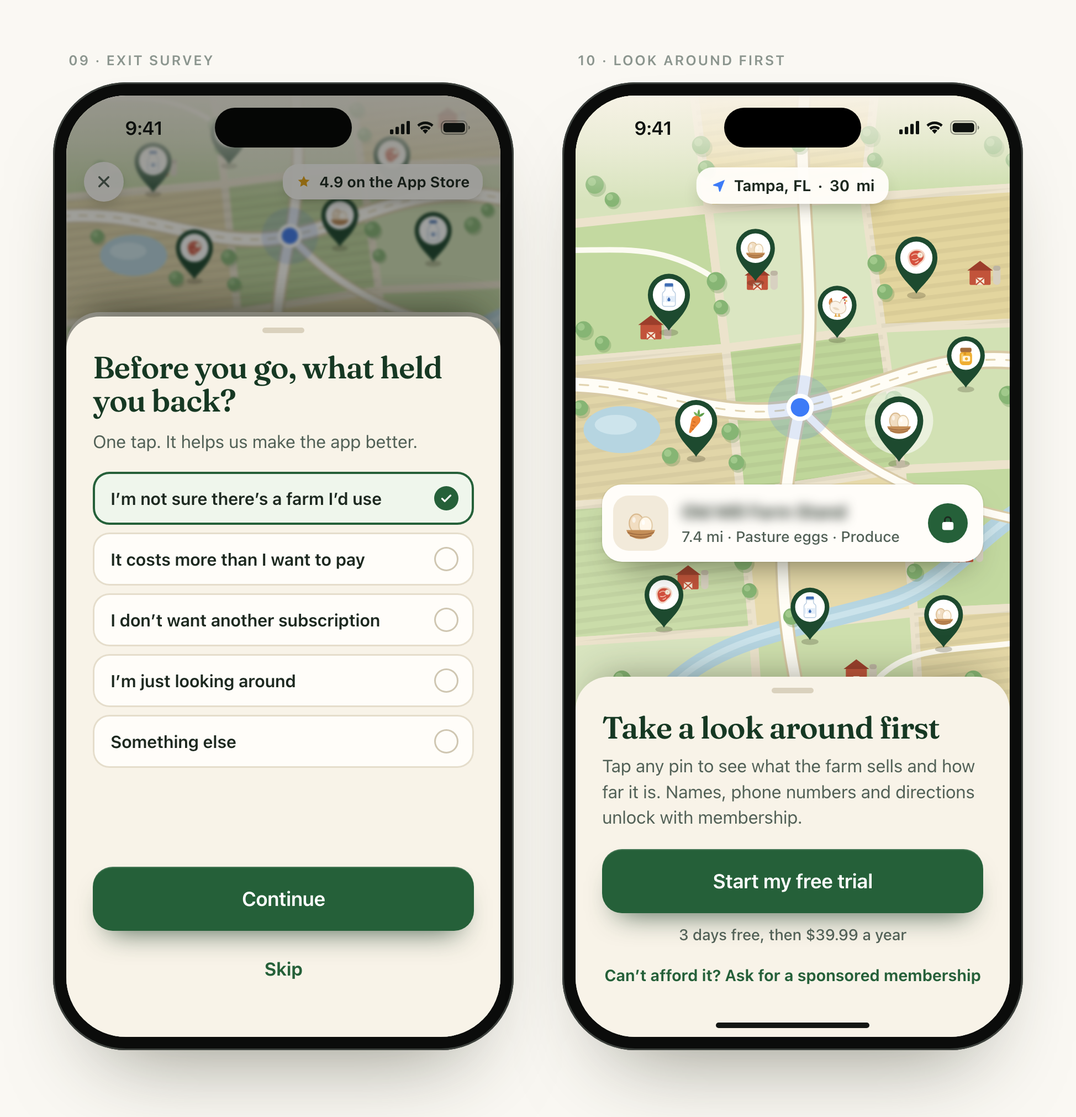
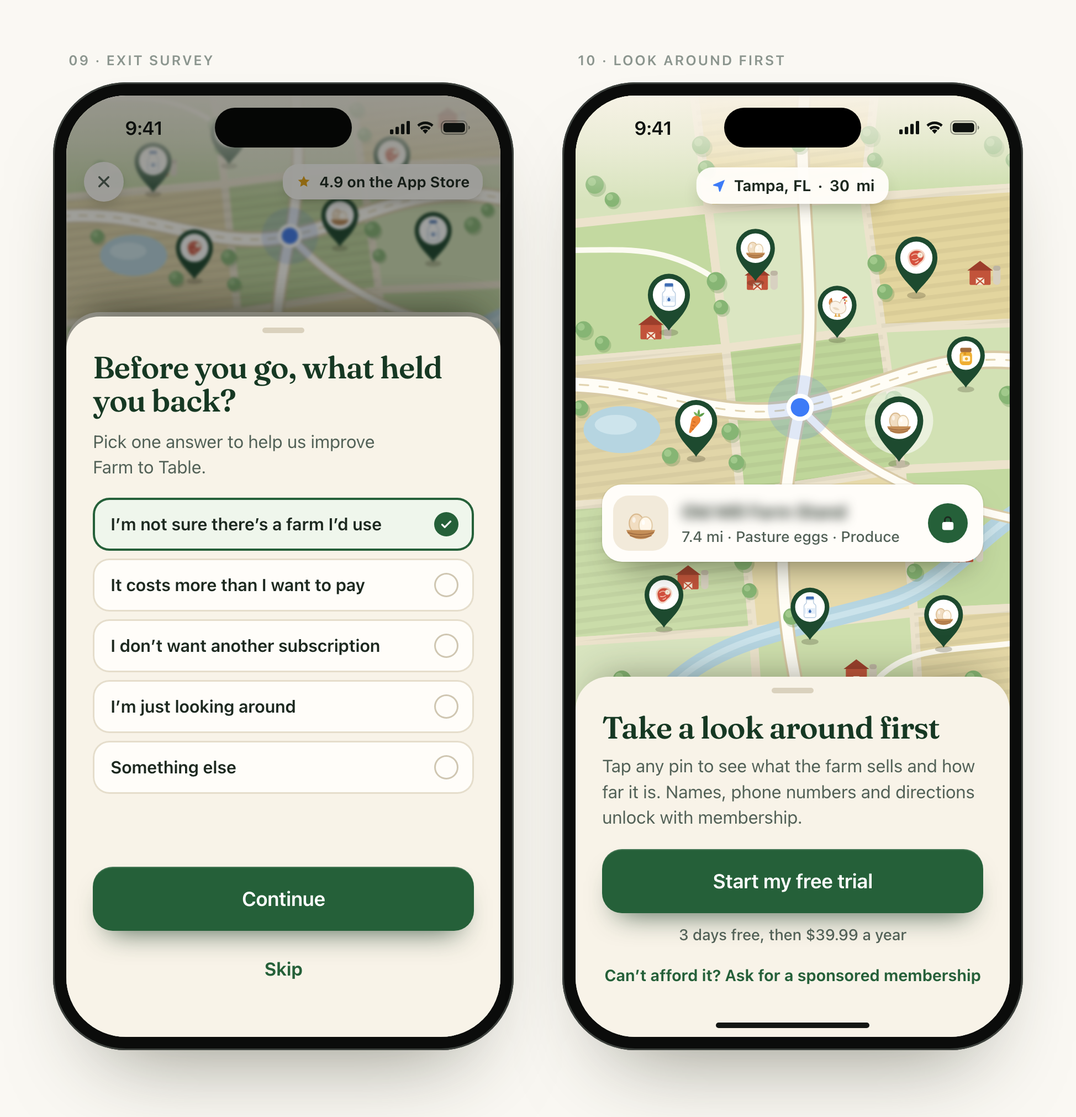
Rewrite page text in plain language
Notes, subtitles and lists lose the bold labels and colon glosses and
read as ordinary sentences. The process block is now titled just
"О процессе". Calques and repeated words are gone, and a few claims are
tightened: guideline 5.1.1(iv) is a recommendation, and the Marin County
complaint and the refund demand are two separate reviews.

On the screens, the location privacy line, the ZIP subtitle and the exit
survey subtitle are rewritten, and the affected PNGs are re-rendered.

Changed region(s): [[0.0924, 0.3739, 0.462, 0.7166]]

diff --git a/index.html b/index.html
@@ -5,11 +5,11 @@
 <meta name="viewport" content="width=device-width, initial-scale=1, viewport-fit=cover">
 <title>Farm to Table · Onboarding and Paywall</title>
 <meta name="robots" content="noindex, nofollow">
-<meta name="description" content="Тестовое задание на менеджера по монетизации: 4 экрана онбординга и пейвол для Farm to Table в размере iPhone, плюс ветки воронки, варианты пейвола для A/B, первые минуты триала и схема событий.">
+<meta name="description" content="Тестовое задание на менеджера по монетизации: 4 экрана онбординга и пейвол для Farm to Table в размере iPhone. Сверх задания ветки воронки, варианты пейвола для A/B, первые минуты триала и схема событий.">
 <meta property="og:type" content="website">
 <meta property="og:url" content="https://nikit34.github.io/farm-to-table-onboarding/">
 <meta property="og:title" content="Farm to Table: онбординг и пейвол">
-<meta property="og:description" content="4 экрана онбординга и пейвол в размере iPhone 393×852, плюс ветки воронки, три варианта пейвола, первые минуты триала и схема событий.">
+<meta property="og:description" content="4 экрана онбординга и пейвол в размере iPhone 393×852. Сверх задания ветки воронки, три варианта пейвола, первые минуты триала и схема событий.">
 <meta property="og:image" content="https://nikit34.github.io/farm-to-table-onboarding/png/00_overview.png">
 <meta property="og:image:width" content="4714">
 <meta property="og:image:height" content="2022">
@@ -734,7 +734,7 @@ body.proto .group-head,body.proto .about,body.overview .about,body.shotmode .abo
 
 <header class="page-head page" data-page="task">
   <h1>Farm to Table: онбординг и пейвол</h1>
-  <p>Четыре экрана онбординга и пейвол в размере iPhone 393×852, тексты на английском. Выбор продуктов на экране 2 меняет экран 4 и пейвол. Под экранами - процесс в пяти предложениях, на следующих вкладках - то, что сверх задания.</p>
+  <p>Четыре экрана онбординга и пейвол в размере iPhone 393×852, тексты на английском. Выбор продуктов на экране 2 меняет экран 4 и пейвол. Процесс описал под экранами, а всё, что сверх задания, вынес на другие вкладки.</p>
 </header>
 
 <main class="board" id="board">
@@ -760,7 +760,7 @@ body.proto .group-head,body.proto .about,body.overview .about,body.shotmode .abo
       <div class="homebar"></div>
     </div></div>
     <div class="note">
-      <p><b>Зачем.</b> Сразу показать, что это карта ферм рядом, и назвать продукты, за которыми приходят. Sign in - для тех, кто уже оплатил в веб-воронке.</p>
+      <p>Первый экран сразу объясняет, что это карта ферм рядом, и называет продукты, за которыми сюда приходят. Кнопка Sign in нужна тем, кто уже оплатил в веб-воронке.</p>
       <p><b>Метрика:</b> переход на шаг 2.</p>
     </div>
   </section>
@@ -779,8 +779,8 @@ body.proto .group-head,body.proto .about,body.overview .about,body.shotmode .abo
       <div class="homebar"></div>
     </div></div>
     <div class="note">
-      <p><b>Зачем.</b> Один вопрос вместо цепочки квиза, ответ подставляется в экран 4 и в пейвол. Плитка Bulk beef проверяет спрос на покупку говядины тушей: в числе ферм она считается по ранчо, которые продают доли туши.</p>
-      <p><b>Метрика:</b> доля прошедших шаг, число выбранных продуктов.</p>
+      <p>Вместо длинного квиза здесь один вопрос, и ответ потом подставляется на экран 4 и в пейвол. Плитка Bulk beef проверяет спрос на говядину тушей, а при подсчёте ферм для неё берём ранчо, которые продают доли туши.</p>
+      <p><b>Метрики:</b> доля прошедших шаг, число выбранных продуктов.</p>
     </div>
   </section>
   <section class="shot" data-n="3">
@@ -793,14 +793,14 @@ body.proto .group-head,body.proto .about,body.overview .about,body.shotmode .abo
       <div class="s3-body">
         <h1 class="title">Let’s find farms<br>around you</h1>
         <p class="sub">Allow location to see farms, ranches and markets within a short drive of home.</p>
-        <div class="privacy"><svg><use href="#i-shield"/></svg>Used only to build your map. Never shared.</div>
+        <div class="privacy"><svg><use href="#i-shield"/></svg>Used only for your map and never shared.</div>
       </div>
       <p class="fine" style="bottom:118px">Next, iOS will ask to share your location.</p>
       <button class="cta" data-go="3a" data-ov="loc" style="bottom:46px">Continue</button>
       <div class="homebar"></div>
     </div></div>
     <div class="note">
-      <p><b>Зачем.</b> Объяснить геолокацию до системного окна: после отказа в нём вернуть человека можно только через настройки. Одна кнопка по HIG, после «Don’t Allow» - ввод ZIP.</p>
+      <p>Праймер до системного окна объясняет, зачем нужна геолокация: кто запретит доступ в самом окне, того вернуть можно только через настройки. По HIG на праймере одна кнопка, а после «Don’t Allow» открывается ввод ZIP.</p>
       <p><b>Метрика:</b> opt-in геолокации.</p>
     </div>
   </section>
@@ -832,8 +832,8 @@ body.proto .group-head,body.proto .about,body.overview .about,body.shotmode .abo
       <div class="homebar"></div>
     </div></div>
     <div class="note">
-      <p><b>Главный экран.</b> В V2 похожий есть на шаге 10 из 29, здесь он стоит прямо перед пейволом и считает фермы по выбранным продуктам. Оплата вслепую - главная жалоба категории (31% отзывов на 1-2 звезды), поэтому видна ближайшая ферма со скрытым названием. «Verified» только у ферм, проверенных звонком или SMS, у остальных «Updated» с датой.</p>
-      <p><b>Метрика:</b> CTR в пейвол, рефанды по покрытию района.</p>
+      <p>Это главный экран воронки. В V2 похожий экран есть на шаге 10 из 29, а здесь он стоит прямо перед пейволом и считает фермы по выбранным продуктам. Больше всего в категории жалуются на оплату вслепую (31% отзывов на 1-2 звезды), поэтому ближайшую ферму видно, но без названия. Бейдж «Verified» стоит только у ферм, проверенных звонком или SMS, у остальных «Updated» с датой.</p>
+      <p><b>Метрики:</b> CTR в пейвол, рефанды по покрытию района.</p>
     </div>
   </section>
   <section class="shot" data-n="5">
@@ -873,8 +873,8 @@ body.proto .group-head,body.proto .about,body.overview .about,body.shotmode .abo
       <div class="homebar"></div>
     </div></div>
     <div class="note">
-      <p><b>Зачем.</b> Заголовок продолжает экран 4, продукты подставляются из шага 2. Таймлайн с датами, как у Blinkist (+23% стартов триала), напоминание - за два дня до конца триала. Сумма $39.99 крупнее пересчёта, как требует Apple, а якорь - $3.33 в месяц, дешевле дюжины фермерских яиц.</p>
-      <p><b>Метрика:</b> старт триала с показа, выручка на установку за 30 дней.</p>
+      <p>Заголовок продолжает экран 4, продукты подставляются из шага 2. Таймлайн с датами сделан как у Blinkist, где он дал +23% стартов триала. Напоминание в таймлайне стоит за два дня до конца триала. Цену $39.99 набрали крупнее пересчёта в месяц, так требует Apple, а вместо зачёркнутой цены пишем, что $3.33 в месяц дешевле дюжины фермерских яиц.</p>
+      <p><b>Метрики:</b> старт триала с показа, выручка на установку за 30 дней.</p>
     </div>
   </section>
   </div>
@@ -882,16 +882,16 @@ body.proto .group-head,body.proto .about,body.overview .about,body.shotmode .abo
 
 <section class="about page" data-page="task">
   <div class="brief">
-    <h3>О процессе в пяти предложениях</h3>
-    <p><b>Референсы:</b> прямой конкурент Localize и приложения с картой и взрослой аудиторией - AllTrails, Fishbrain, onX, PictureThis, плюс Blinkist и Too Good To Go; флоу смотрел в Mobbin, пейволы - в screensdesign и paywallscreens. <b>Почему они:</b> в 930 отзывах из App Store категорию больше всего злит оплата вслепую, а у этих приложений есть приёмы, которые показывают ценность до оплаты: фермы рядом до пейвола, таймлайн триала с напоминанием, честный якорь цены. <b>Инструменты:</b> Claude Code - исследование по пяти промптам из папки prompts, вёрстка в HTML, карты и иконки в SVG без стоков, скриншоты для правок через Playwright. <b>Пример промпта:</b> «Собери в одном HTML пять экранов iPhone 393×852 для Farm to Table… без таймеров и зачёркнутых цен, годовая цена крупнее пересчёта в месяц», бриф целиком - во вкладке <a href="#notes">«Как делал»</a>. <b>Итерации:</b> одиннадцать - пять на основные экраны, четыре на расширение, одна на светлую тему и одна по ответам команды.</p>
+    <h3>О процессе</h3>
+    <p>Референсы брал у прямого конкурента Localize и у приложений с картой и аудиторией постарше: AllTrails, Fishbrain, onX, PictureThis, а ещё у Blinkist и Too Good To Go; живые флоу смотрел в Mobbin, пейволы в screensdesign и paywallscreens. Выбрал именно их, потому что в 930 отзывах из App Store по этой категории чаще всего жалуются на оплату вслепую, а у этих приложений есть приёмы против неё: карта мест рядом до пейвола, таймлайн триала с напоминанием и якорь от реального месячного плана. Всё делал в Claude Code: исследование по пяти промптам из папки prompts, вёрстку экранов в HTML, карты и иконки в SVG без стоков, а скриншоты для правок снимал через Playwright. Начал с брифа «Собери в одном HTML пять экранов iPhone 393×852 для Farm to Table… без таймеров и зачёркнутых цен, годовая цена крупнее пересчёта в месяц», полный текст во вкладке <a href="#notes">«Как делал»</a>. Итераций было одиннадцать: пять на основные экраны, четыре на расширение, одна на светлую тему и одна по ответам команды.</p>
   </div>
 </section>
 
 <section class="group g2 page" data-page="branches">
   <div class="group-head">
     <span class="kicker">Сверх задания</span>
-    <h2>До пейвола: ветки и состояния</h2>
-    <p>Отказ от геолокации, сборка карты, мало ферм рядом и пустой район, где пейвол не показываем.</p>
+    <h2>Ветки и состояния до пейвола</h2>
+    <p>Отказ от геолокации, сборка карты и районы, где ферм мало или нет совсем. В пустом районе пейвол не показываем.</p>
   </div>
   <div class="shots">
 
@@ -899,7 +899,7 @@ body.proto .group-head,body.proto .about,body.overview .about,body.shotmode .abo
     <div class="shot-label">03a · System location prompt</div>
     <div class="frame"><div class="phone" lang="en"></div></div>
     <div class="note">
-      <p><b>Зачем.</b> Текст окна продолжает праймер, а «Don’t Allow» ведёт на ввод ZIP, как требует правило 5.1.1(iv). Для радиуса в 30 миль хватит приблизительной геолокации.</p>
+      <p>Текст окна говорит то же, что праймер. «Don’t Allow» ведёт на ввод ZIP, как советует правило 5.1.1(iv), а для радиуса в 30 миль хватит и приблизительной геолокации.</p>
       <p><b>Метрика:</b> доля Allow.</p>
     </div>
   </section>
@@ -912,7 +912,7 @@ body.proto .group-head,body.proto .about,body.overview .about,body.shotmode .abo
       <div class="nav"><button class="back" data-go="3" aria-label="Back"><svg><use href="#i-chev"/></svg></button><div class="prog"><i class="on"></i><i class="on"></i><i></i></div></div>
       <div class="zip-head">
         <h1 class="title">Where should<br>we look?</h1>
-        <p class="sub">Enter your ZIP code and we’ll show farms within a short drive of it.</p>
+        <p class="sub">Enter your ZIP code to see farms within a short drive.</p>
       </div>
       <div class="zip-field"><span class="zip-d js-zip">33602</span><span class="caret"></span></div>
       <div class="zip-city js-zipcity"><span class="ok"><svg><use href="#i-check"/></svg></span><span class="js-zipname">Tampa, FL</span></div>
@@ -935,8 +935,8 @@ body.proto .group-head,body.proto .about,body.overview .about,body.shotmode .abo
       <div class="homebar"></div>
     </div></div>
     <div class="note">
-      <p><b>Зачем.</b> Без геолокации человек всё равно доходит до ферм. В прототипе ZIP переключает район: 33602 - ферм много, 94901 - мало, 89801 - нет.</p>
-      <p><b>Метрика:</b> доля ZIP, доходимость до пейвола.</p>
+      <p>Без геолокации человек всё равно доходит до ферм. В прототипе ZIP переключает район: в 33602 ферм много, в 94901 мало, в 89801 нет.</p>
+      <p><b>Метрики:</b> доля ZIP, доходимость до пейвола.</p>
     </div>
   </section>
 
@@ -959,7 +959,7 @@ body.proto .group-head,body.proto .about,body.overview .about,body.shotmode .abo
       <div class="homebar"></div>
     </div></div>
     <div class="note">
-      <p><b>Зачем.</b> Три секунды, пока база считает фермы: человек видит, что именно проверяется, и числа совпадут с экраном 4.</p>
+      <p>Пока база три секунды считает фермы, человек видит, сколько их по каждому продукту, и эти числа потом будут на экране 4.</p>
       <p><b>Метрика:</b> доля отвалов на загрузке.</p>
     </div>
   </section>
@@ -986,8 +986,8 @@ body.proto .group-head,body.proto .about,body.overview .about,body.shotmode .abo
       <div class="homebar"></div>
     </div></div>
     <div class="note">
-      <p><b>Зачем.</b> Если в 30 милях меньше 10 ферм, радиус сам расширяется до 60 и 100 миль, и экран честно называет цифры. Это ответ на отзывы вроде «одна ферма на весь Marin County» с требованием вернуть деньги.</p>
-      <p><b>Метрика:</b> trial → paid и рефанды в этом состоянии.</p>
+      <p>Если в 30 милях меньше 10 ферм, радиус сам расширяется до 60 и 100 миль, и на экране видно, сколько ферм нашлось. На Farm to Table уже жалуются в отзывах на одну ферму на весь Marin County, а в другом отзыве требуют вернуть деньги.</p>
+      <p><b>Метрики:</b> trial → paid и рефанды на этом экране.</p>
     </div>
   </section>
 
@@ -1013,7 +1013,7 @@ body.proto .group-head,body.proto .about,body.overview .about,body.shotmode .abo
       <div class="homebar"></div>
     </div></div>
     <div class="note">
-      <p><b>Зачем.</b> Ферм нет и в 100 милях - пейвол не показываем, такие деньги вернутся рефандом. Доля экрана по гео показывает, где не закупать рекламу.</p>
+      <p>Если ферм нет и в 100 милях, пейвол не показываем: такой человек почти наверняка попросит рефанд. По доле этого экрана в разных регионах видно, где не стоит закупать рекламу.</p>
       <p><b>Метрика:</b> доля показов по гео.</p>
     </div>
   </section>
@@ -1024,8 +1024,8 @@ body.proto .group-head,body.proto .about,body.overview .about,body.shotmode .abo
 <section class="group g3 page" data-page="paywalls">
   <div class="group-head">
     <span class="kicker">Сверх задания</span>
-    <h2>Пейвол: варианты для A/B и состояния</h2>
-    <p>A - основной вариант, B и C меняют в нём один блок. Плюс пейвол для тех, у кого триал уже был, и лист App Store.</p>
+    <h2>Варианты и состояния пейвола</h2>
+    <p>Вариант A основной, B и C меняют в нём по одному блоку. Ещё здесь окно покупки App Store и пейвол для тех, у кого уже был триал.</p>
   </div>
   <div class="shots">
 
@@ -1059,7 +1059,7 @@ body.proto .group-head,body.proto .about,body.overview .about,body.shotmode .abo
       <div class="homebar"></div>
     </div></div>
     <div class="note">
-      <p><b>Гипотеза.</b> Кто пришёл за продуктом, покупает ферму, а не список выгод: названия видны, телефон и маршрут закрыты. Риск - найдут ферму в Google, поэтому это вариант для теста, а не замена A.</p>
+      <p>Проверяем, охотнее ли человек, который пришёл за конкретным продуктом, платит за ферму, чем за список выгод. Для этого названия ферм видны, а телефон и маршрут закрыты. Риск в том, что ферму найдут в Google, так что B пока только вариант для теста.</p>
       <p><b>Метрика:</b> старт триала против A.</p>
     </div>
   </section>
@@ -1103,8 +1103,8 @@ body.proto .group-head,body.proto .about,body.overview .about,body.shotmode .abo
       <div class="homebar"></div>
     </div></div>
     <div class="note">
-      <p><b>Гипотеза.</b> Честный якорь - реальный месячный план: «Save 58%» от $7.99 в месяц - правда, а зачёркнутая $79.98 в V1 - нет. Решаем по выручке на установку, а не по конверсии.</p>
-      <p><b>Метрика:</b> выручка на установку, доля годовых.</p>
+      <p>Проверяем якорь от реального месячного плана. Скидка «Save 58%» посчитана от $7.99 в месяц, а по зачёркнутой $79.98 из V1 подписку не продавали. Решаем по выручке на установку, а не по конверсии, потому что часть людей возьмёт месяц и отменит после первого списания.</p>
+      <p><b>Метрики:</b> выручка на установку, доля годовых.</p>
     </div>
   </section>
 
@@ -1145,7 +1145,7 @@ body.proto .group-head,body.proto .about,body.overview .about,body.shotmode .abo
       <div class="homebar"></div>
     </div></div>
     <div class="note">
-      <p><b>Зачем.</b> Триал даётся один раз на Apple ID: тем, кто уже пробовал, не обещаем «3 days free», а показываем дату списания и как отменить.</p>
+      <p>Триал даётся один раз на Apple ID. Тем, кто уже пробовал, не обещаем «3 days free» и пишем дату списания и способ отмены.</p>
       <p><b>Метрика:</b> конверсия в оплату без триала.</p>
     </div>
   </section>
@@ -1154,8 +1154,8 @@ body.proto .group-head,body.proto .about,body.overview .about,body.shotmode .abo
     <div class="shot-label">05e · App Store purchase sheet</div>
     <div class="frame"><div class="phone" lang="en"></div></div>
     <div class="note">
-      <p><b>Зачем.</b> Лист рисует Apple, и текст пейвола должен с ним совпасть: 3 дня бесплатно, потом $39.99 в конкретную дату.</p>
-      <p><b>Метрика:</b> доля отмен на листе.</p>
+      <p>Окно покупки рисует Apple, и пейвол должен с ним совпадать: 3 дня бесплатно, потом $39.99 в конкретную дату.</p>
+      <p><b>Метрика:</b> доля отмен в окне покупки.</p>
     </div>
   </section>
 
@@ -1165,8 +1165,8 @@ body.proto .group-head,body.proto .about,body.overview .about,body.shotmode .abo
 <section class="group g4 page" data-page="after">
   <div class="group-head">
     <span class="kicker">Сверх задания</span>
-    <h2>После оплаты: первые минуты триала</h2>
-    <p>Эти экраны выполняют обещания пейвола: карта сразу, напоминание перед списанием, простая отмена.</p>
+    <h2>Первые минуты триала</h2>
+    <p>Пейвол обещает карту сразу, напоминание перед списанием и простую отмену, и эти экраны всё это дают.</p>
   </div>
   <div class="shots">
 
@@ -1191,7 +1191,7 @@ body.proto .group-head,body.proto .about,body.overview .about,body.shotmode .abo
       <div class="homebar"></div>
     </div></div>
     <div class="note">
-      <p><b>Зачем.</b> Разрешение на напоминание просим, когда оно нужно самому человеку: у Blinkist такой экран поднял согласие на пуши с 6% до 74%.</p>
+      <p>Разрешение на пуши просим тогда, когда человеку самому нужно напоминание. У Blinkist такой экран поднял согласие на пуши с 6% до 74%.</p>
       <p><b>Метрика:</b> opt-in пушей.</p>
     </div>
   </section>
@@ -1222,7 +1222,7 @@ body.proto .group-head,body.proto .about,body.overview .about,body.shotmode .abo
       <div class="homebar"></div>
     </div></div>
     <div class="note">
-      <p><b>Зачем.</b> Около 55% отмен 3-дневного триала приходятся на день оформления, поэтому сразу открываем ферму, скрытую на экране 4. Часов и способов оплаты в базе нет, поэтому на карточке «call ahead».</p>
+      <p>По RevenueCat около 55% отмен 3-дневного триала происходят в день оформления, поэтому сразу после старта триала открываем ферму, которая была скрыта на экране 4. Раз часов работы и способов оплаты в базе нет, на карточке написано «call ahead».</p>
       <p><b>Метрика:</b> действие с фермой в первый день.</p>
     </div>
   </section>
@@ -1245,8 +1245,8 @@ body.proto .group-head,body.proto .about,body.overview .about,body.shotmode .abo
       <div class="homebar"></div>
     </div></div>
     <div class="note">
-      <p><b>Зачем.</b> Обещание пейвола: за два дня до конца триала, с суммой и сроком отмены. Кто не нашёл ферму, отменит сам, а не через рефанд.</p>
-      <p><b>Метрика:</b> рефанды за 30 дней, trial → paid.</p>
+      <p>Напоминание, обещанное на пейволе, приходит за два дня до конца триала, с суммой и сроком отмены. Кто не нашёл свою ферму, отменит сам и не пойдёт за рефандом.</p>
+      <p><b>Метрики:</b> рефанды за 30 дней, trial → paid.</p>
     </div>
   </section>
 
@@ -1257,7 +1257,7 @@ body.proto .group-head,body.proto .about,body.overview .about,body.shotmode .abo
   <div class="group-head">
     <span class="kicker">Сверх задания</span>
     <h2>Если закрыл пейвол</h2>
-    <p>Один вопрос о причине закрытия и карта с замками: тап по ферме снова открывает пейвол.</p>
+    <p>После крестика задаём один вопрос о причине и показываем карту с замками, где тап по ферме снова открывает пейвол.</p>
   </div>
   <div class="shots">
 
@@ -1265,7 +1265,7 @@ body.proto .group-head,body.proto .about,body.overview .about,body.shotmode .abo
     <div class="shot-label">09 · Exit survey</div>
     <div class="frame"><div class="phone" lang="en"></div></div>
     <div class="note">
-      <p><b>Зачем.</b> Каждый ответ ведёт к своему тесту: не верят в покрытие - вариант B, дорого - C. Скидки на выходе нет: в iOS за неё бывают отказы по правилу 5.6.</p>
+      <p>Каждый ответ ведёт к своему тесту: если не верят в покрытие, тестируем вариант B, если дорого, то C. Скидку на выходе не даём, потому что за неё бывают отказы на ревью по правилу 5.6.</p>
       <p><b>Метрика:</b> причины закрытия.</p>
     </div>
   </section>
@@ -1295,7 +1295,7 @@ body.proto .group-head,body.proto .about,body.overview .about,body.shotmode .abo
       <div class="homebar"></div>
     </div></div>
     <div class="note">
-      <p><b>Зачем.</b> После крестика остаётся карта: пины видны, а название, телефон и маршрут закрыты. Тап по пину снова открывает пейвол с этой фермой, льготный доступ - в один тап.</p>
+      <p>После крестика человек видит карту: пины на месте, а название, телефон и маршрут закрыты. Тап по пину снова открывает пейвол с этой фермой. Заявку на льготный доступ можно оставить прямо здесь, а в V1 для этого нужно писать на email.</p>
       <p><b>Метрика:</b> старт триала к 7-му дню у закрывших пейвол.</p>
     </div>
   </section>
@@ -1308,7 +1308,7 @@ body.proto .group-head,body.proto .about,body.overview .about,body.shotmode .abo
 <section class="flow page" data-page="flow">
   <div class="card">
     <h2>Схема воронки</h2>
-    <p>Все экраны на одной схеме: куда ведёт каждая кнопка и какое событие уходит на переходе. Зелёные - экраны из задания, белые - сверх него.</p>
+    <p>На схеме все экраны, переходы по каждой кнопке и событие на каждом переходе. Зелёным отмечены экраны из задания, белым всё, что сверх него.</p>
     <div class="fsvg">
       <svg viewBox="0 0 1140 926" role="img" aria-label="Схема воронки Farm to Table">
         <defs>
@@ -1391,7 +1391,7 @@ body.proto .group-head,body.proto .about,body.overview .about,body.shotmode .abo
           <rect x="40" y="860" width="290" height="46" rx="12" class="n2"/><text x="54" y="879" class="t1b">Day 3: продление или отмена</text><text x="54" y="896" class="ev">renewal · trial_cancel · refund</text>
 
           <rect x="470" y="230" width="250" height="46" rx="12" class="n2"/><text x="484" y="249" class="t1b">03b ZIP code</text><text x="484" y="266" class="t2b">город виден сразу под полем</text>
-          <rect x="470" y="440" width="250" height="46" rx="12" class="n2"/><text x="484" y="459" class="t1b">04b Few farms</text><text x="484" y="476" class="t2b">честно пишем радиус и число</text>
+          <rect x="470" y="440" width="250" height="46" rx="12" class="n2"/><text x="484" y="459" class="t1b">04b Few farms</text><text x="484" y="476" class="t2b">пишем радиус и число ферм</text>
           <rect x="470" y="510" width="250" height="46" rx="12" class="n2"/><text x="484" y="529" class="t1b">09 Exit survey</text><text x="484" y="546" class="t2b">один вопрос, пять ответов</text>
           <rect x="470" y="650" width="250" height="46" rx="12" class="n2"/><text x="484" y="669" class="t1b">iOS notification prompt</text><text x="484" y="686" class="t2b">Allow · Don’t Allow</text>
           <rect x="800" y="440" width="300" height="46" rx="12" class="n2"/><text x="814" y="459" class="t1b">04c No farms in 100 mi</text><text x="814" y="476" class="t2b">Notify me, пейвол не показываем</text>
@@ -1403,7 +1403,7 @@ body.proto .group-head,body.proto .about,body.overview .about,body.shotmode .abo
 
   <div class="card">
     <h2>События аналитики</h2>
-    <p>Минимальный набор событий. Выручку и отмены берём из серверных уведомлений App Store через Adapty, а не из клиента.</p>
+    <p>Это минимальный набор, чтобы тесты читались без ручных выгрузок. Выручку и отмены берём из серверных уведомлений App Store через Adapty, а не из клиента.</p>
     <div class="twrap"><table class="tbl">
       <thead><tr><th>Событие</th><th>Когда</th><th>Параметры</th></tr></thead>
       <tbody>
@@ -1415,7 +1415,7 @@ body.proto .group-head,body.proto .about,body.overview .about,body.shotmode .abo
         <tr><td><code>coverage_shown</code></td><td>экран с фермами</td><td>state: dense, sparse, none; radius; total; per_item</td></tr>
         <tr><td><code>paywall_view</code></td><td>каждый показ пейвола</td><td>variant: A, B, C, no_trial; placement: onboarding, pin, survey; coverage_state</td></tr>
         <tr><td><code>paywall_plan_selected</code></td><td>выбор плана в варианте C</td><td>plan</td></tr>
-        <tr><td><code>purchase_sheet_shown</code>, <code>purchase_sheet_cancel</code></td><td>лист App Store</td><td>product_id, variant</td></tr>
+        <tr><td><code>purchase_sheet_shown</code>, <code>purchase_sheet_cancel</code></td><td>окно покупки App Store</td><td>product_id, variant</td></tr>
         <tr><td><code>trial_start</code>, <code>purchase</code></td><td>успешная покупка</td><td>product_id, price, trial_days, placement</td></tr>
         <tr><td><code>paywall_close</code>, <code>paywall_exit_reason</code></td><td>крестик и опрос</td><td>reason или skipped</td></tr>
         <tr><td><code>push_permission_result</code></td><td>системное окно после покупки</td><td>allowed или denied; source</td></tr>
@@ -1428,16 +1428,16 @@ body.proto .group-head,body.proto .about,body.overview .about,body.shotmode .abo
 
   <div class="card">
     <h2>Порядок тестов</h2>
-    <p>По цифрам воронки после триала у вас платят чаще медианы RevenueCat, а стартов триала с установки мало: деньги теряются до триала. Поэтому первые тесты меряют старт триала, а trial → paid держим как guardrail. Альфа 0.05, мощность 80%.</p>
+    <p>По вашим цифрам trial → paid выше медианы RevenueCat, а до триала доходит мало установок, то есть деньги теряются раньше. Поэтому первые тесты меряют старт триала, а trial → paid остаётся guardrail. Объёмы посчитаны для альфы 0.05 и мощности 80%.</p>
     <div class="twrap"><table class="tbl">
       <thead><tr><th>Тест</th><th>Гипотеза</th><th>Метрика и guardrails</th><th>Объём</th></tr></thead>
       <tbody>
         <tr><td><b>1. Пейвол A против V1</b></td><td>Прозрачный пейвол поднимает старт триала</td><td>старт триала, выручка на установку; guardrails: trial → paid, рефанды</td><td>2-4 тыс. установок на вариант</td></tr>
-        <tr><td><b>2. B и C против победителя</b></td><td>B: фермы продают лучше буллетов. C: реальный месячный якорь поднимает долю годовых</td><td>B: старт триала. C: выручка на установку, доля годовых</td><td>как тест 1</td></tr>
-        <tr><td><b>3. Короткий онбординг против V2</b></td><td>Пять экранов с покрытием дают install → paid не ниже 29 экранов</td><td>install → paid, выручка на установку</td><td>только эффект от +20%</td></tr>
-        <tr><td><b>4. Опрос и карта после крестика</b></td><td>Повторный показ пейвола в момент интереса добирает конверсию без скидок</td><td>старт триала к 7-му дню</td><td>после двух недель опроса</td></tr>
+        <tr><td><b>2. B и C против победителя</b></td><td>B: конкретные фермы убеждают лучше списка выгод. C: реальный месячный якорь поднимает долю годовых</td><td>B: старт триала. C: выручка на установку, доля годовых</td><td>как тест 1</td></tr>
+        <tr><td><b>3. Короткий онбординг против V2</b></td><td>Пять экранов с покрытием дают install → paid не хуже 29 экранов</td><td>install → paid, выручка на установку</td><td>MDE от +20%</td></tr>
+        <tr><td><b>4. Опрос и карта после крестика</b></td><td>Пейвол, снова открытый по тапу на ферму, добирает конверсию без скидок</td><td>старт триала к 7-му дню</td><td>после двух недель опроса</td></tr>
         <tr><td><b>5. Триал 3 дня против 7</b></td><td>За 3 дня можно не успеть доехать до фермы, но после 3-дневного триала у вас и так платят часто, поэтому тест последний</td><td>выручка на установку, trial → paid</td><td>как тест 1</td></tr>
-        <tr><td><b>6. Пустые районы без пейвола</b></td><td>Правило, а не тест</td><td>доля 04c и рефанды по гео</td><td>не нужен</td></tr>
+        <tr><td><b>6. Пустые районы без пейвола</b></td><td>Вводим без теста</td><td>доля 04c и рефанды по гео</td><td>не нужен</td></tr>
       </tbody>
     </table></div>
   </div>
@@ -1447,10 +1447,10 @@ body.proto .group-head,body.proto .about,body.overview .about,body.shotmode .abo
   <div class="card">
     <h2>Как делал</h2>
     <ul class="proc">
-      <li><b>Промпты.</b> Прогнал все пять из папки prompts: PRD, работы по отзывам, конкуренты, отстройка, тренды. PRD собран без интервью, по вашим материалам и отзывам, а пробелы закрыл вопросами к команде.</li>
-      <li><b>Отзывы.</b> 930 отзывов из App Store по 11 приложениям. Главная жалоба - платишь, не видя своего района (31% отзывов на 1-2 звезды), главная радость - «нашёл ферму рядом» (35% отзывов на 4-5 звёзд).</li>
-      <li><b>Референсы.</b> <a href="https://apps.apple.com/us/app/localize-farmers-market/id6756440767">Localize</a> - прямой конкурент и пример, как не надо: пейвол без показа ферм и зачёркнутая цена. Живые флоу смотрел в Mobbin (<a href="https://mobbin.com/apps/blinkist-ios-fdae09ec-9695-4a73-9981-84f1bd3538bf/c1a883aa-e28c-46a5-ba41-b3ca828a1371/flows">Blinkist</a>, <a href="https://mobbin.com/apps/all-trails-ios-66ac61f7-f9ea-4c45-b512-b2fadf7e027b/caf6da24-bc01-47b9-a571-0f4db9d55dfe/flows">AllTrails</a>, <a href="https://mobbin.com/apps/too-good-to-go-ios-d544c59a-6284-499f-ba07-92ca14f91002/00967c9c-7821-467b-8c31-7052fcd944b5/flows">Too Good To Go</a>), остальное - по <a href="https://screensdesign.com">screensdesign</a> и <a href="https://paywallscreens.com">paywallscreens</a>.</li>
-      <li><b>Постановка.</b> Первый заход - брифом ниже, второй - одной фразой: «изучи промпты из папки, прогони нужные для тестового и сделай в прототипе больше, чем описано». Дальше правил по скриншотам экранов.</li>
+      <li>Прогнал все пять промптов из папки prompts: PRD, JTBD по отзывам, конкуренты, отстройка и тренды. PRD собирал без интервью, по вашим материалам и отзывам, а пробелы закрыл вопросами к команде.</li>
+      <li>Разобрал 930 отзывов из App Store по 11 приложениям. Чаще всего жалуются, что платят, не видя своего района (31% отзывов на 1-2 звезды), и чаще всего радуются, что нашли ферму рядом (35% отзывов на 4-5 звёзд).</li>
+      <li><a href="https://apps.apple.com/us/app/localize-farmers-market/id6756440767">Localize</a> - прямой конкурент и пример того, как делать не надо: пейвол без показа ферм и зачёркнутая цена. Живые флоу смотрел в Mobbin (<a href="https://mobbin.com/apps/blinkist-ios-fdae09ec-9695-4a73-9981-84f1bd3538bf/c1a883aa-e28c-46a5-ba41-b3ca828a1371/flows">Blinkist</a>, <a href="https://mobbin.com/apps/all-trails-ios-66ac61f7-f9ea-4c45-b512-b2fadf7e027b/caf6da24-bc01-47b9-a571-0f4db9d55dfe/flows">AllTrails</a>, <a href="https://mobbin.com/apps/too-good-to-go-ios-d544c59a-6284-499f-ba07-92ca14f91002/00967c9c-7821-467b-8c31-7052fcd944b5/flows">Too Good To Go</a>), остальное по записям <a href="https://screensdesign.com">screensdesign</a> и скриншотам <a href="https://paywallscreens.com">paywallscreens</a>.</li>
+      <li>Первый заход делал по брифу ниже, второй начался с одной фразы: «изучи промпты из папки, прогони нужные для тестового и сделай в прототипе больше, чем описано». Дальше правил по скриншотам.</li>
     </ul>
     <div class="prompt">Собери в одном HTML пять экранов iPhone 393×852 для Farm to Table: карта ферм и фермерских рынков в США, ЦА 35-65, подписка $39.99 в год с 3 днями бесплатно. Экраны: приветствие, выбор продуктов, праймер геолокации с запасным ZIP-кодом, «231 ферма рядом» с карточкой ближайшей фермы, где название скрыто, и пейвол. Референсы: пейволы AllTrails (карта сверху, таймлайн триала), Fishbrain (пины рядом с пользователем), PictureThis (та же цена, напоминание до конца триала). Стиль: тёплый кремовый фон, тёмно-зелёный бренд как в текущем приложении, заголовки serif, текст от 16 px, кнопки от 56 px. Иллюстрации карты и иконки продуктов нарисуй сам в SVG, без стоков. Тексты на английском, без таймеров и зачёркнутых цен, годовая цена крупнее пересчёта в месяц. Выбор продуктов на шаге 2 подставь в экран 4 и в текст пейвола.</div>
   </div>
@@ -1458,20 +1458,20 @@ body.proto .group-head,body.proto .about,body.overview .about,body.shotmode .abo
   <div class="card">
     <h2>Что заметил в живой воронке</h2>
     <ul>
-      <li><b>Labor Day Sale</b> в пейволе V1 висит после праздника (7 сентября), и скидка выглядит ненастоящей.</li>
-      <li><b>Зачёркнутая $79.98 - это $39.99 × 2:</b> по такой цене подписку не продавали, а по правилам FTC (16 CFR 233.1) это ложная скидка. Честная альтернатива - вариант C.</li>
-      <li><b>Обещания без продукта:</b> онбординг обещает сделки и экономию $1,500 в год, App Store - «order direct», а в приложении только адреса ферм. Такой разрыв бьёт по отменам триала и отзывам.</li>
-      <li><b>Цифры расходятся:</b> 23,000+ ферм в V2 и пейволе, 30,000+ в веб-хуке, 80,000+ в версии 1.4.0.</li>
-      <li><b>29 экранов до цены:</b> на длинную анкету перед пейволом у конкурентов жалуются 45 отзывов.</li>
+      <li>Праздник прошёл 7 сентября, а в пейволе V1 до сих пор висит Labor Day Sale, и скидка выглядит ненастоящей.</li>
+      <li>Зачёркнутая $79.98 в V1 равна $39.99 × 2, по такой цене подписку не продавали, а по правилам FTC (16 CFR 233.1) скидка от такой цены считается ложной. Якорь от реальной цены есть в варианте C.</li>
+      <li>Онбординг обещает скидки и экономию $1,500 в год, App Store обещает «order direct», а в приложении есть только адреса ферм. Такой разрыв ведёт к отменам триала и плохим отзывам.</li>
+      <li>Число ферм не сходится: 23,000+ в V2 и пейволе, 30,000+ в веб-воронке и 80,000+ в описании обновления 1.4.0.</li>
+      <li>В V2 перед ценой 29 экранов, а на длинную анкету до пейвола жалуются в 45 отзывах о конкурентах.</li>
     </ul>
   </div>
   <div class="card">
     <h2>С чего бы начал</h2>
     <ul>
-      <li><b>Конверсия пейвола в Adapty</b> из показа в старт триала покажет, где теряется старт: в квизе из 29 экранов или на самом пейволе.</li>
-      <li><b>Первый тест - пейвол в Adapty</b> без релиза: метрика - старт триала, guardrail - trial → paid.</li>
-      <li><b>Опрос при закрытии пейвола</b> включить сразу: две недели ответов покажут, что тестировать вторым, B или C.</li>
-      <li><b>Закупка по плотности покрытия:</b> где ферм мало, реклама не окупается и приносит рефанды.</li>
+      <li>Сначала посмотрел бы в Adapty конверсию пейвола из показа в старт триала. По ней видно, где теряются люди: в квизе из 29 экранов или на самом пейволе.</li>
+      <li>Первым тестом запустил бы новый пейвол в Adapty без релиза. Смотрел бы на старт триала, а trial → paid держал бы как guardrail.</li>
+      <li>Опрос при закрытии пейвола включил бы сразу, чтобы за две недели понять, что тестировать вторым, B или C.</li>
+      <li>Рекламу закупал бы с учётом того, сколько ферм в районе: там, где их мало, она не окупается и приносит рефанды.</li>
     </ul>
   </div>
   </div>
@@ -1617,7 +1617,7 @@ function skHTML() {
 }
 function surveyHTML() {
   const opts = OPTS.map((o, i) => `<button class="opt${st.reason === i ? ' on' : ''}" data-reason="${i}"><span>${o}</span><span class="rd"><svg><use href="#i-check"/></svg></span></button>`).join('');
-  return `<div class="scrim" data-close></div><div class="survey"><div class="handle"></div><div class="sheet-in"><h1 class="title">Before you go, what held you back?</h1><p class="sub">One tap. It helps us make the app better.</p><div class="opts">${opts}</div></div><button class="cta" data-go="10" style="bottom:96px"${st.reason < 0 ? ' disabled' : ''}>Continue</button><button class="linkbtn" data-go="10" data-skip style="bottom:40px">Skip</button></div>`;
+  return `<div class="scrim" data-close></div><div class="survey"><div class="handle"></div><div class="sheet-in"><h1 class="title">Before you go, what held you back?</h1><p class="sub">Pick one answer to help us improve Farm to Table.</p><div class="opts">${opts}</div></div><button class="cta" data-go="10" style="bottom:96px"${st.reason < 0 ? ' disabled' : ''}>Continue</button><button class="linkbtn" data-go="10" data-skip style="bottom:40px">Skip</button></div>`;
 }
 const OV = {loc: locHTML, push: pushHTML, sk: skHTML, survey: surveyHTML};
 
